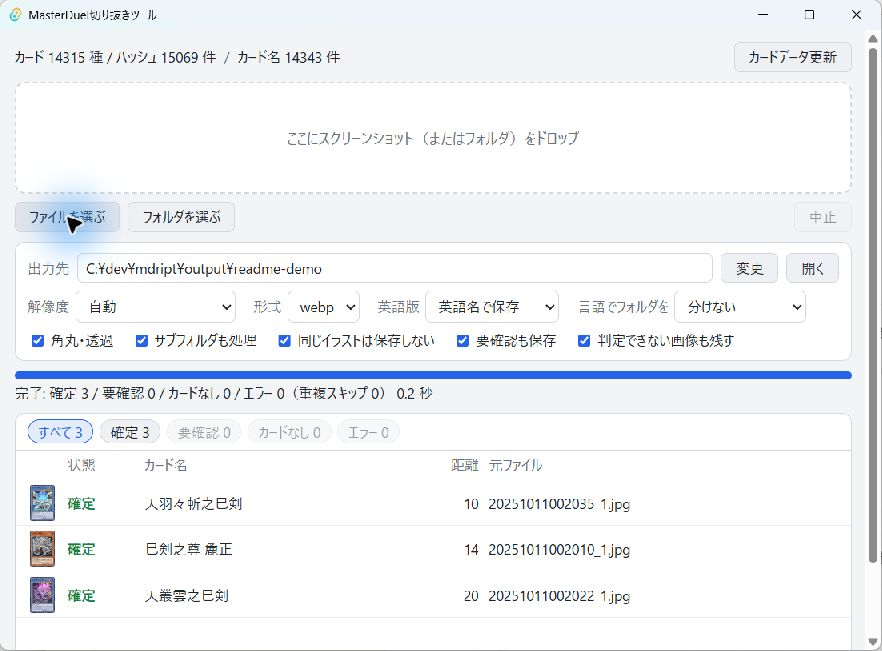
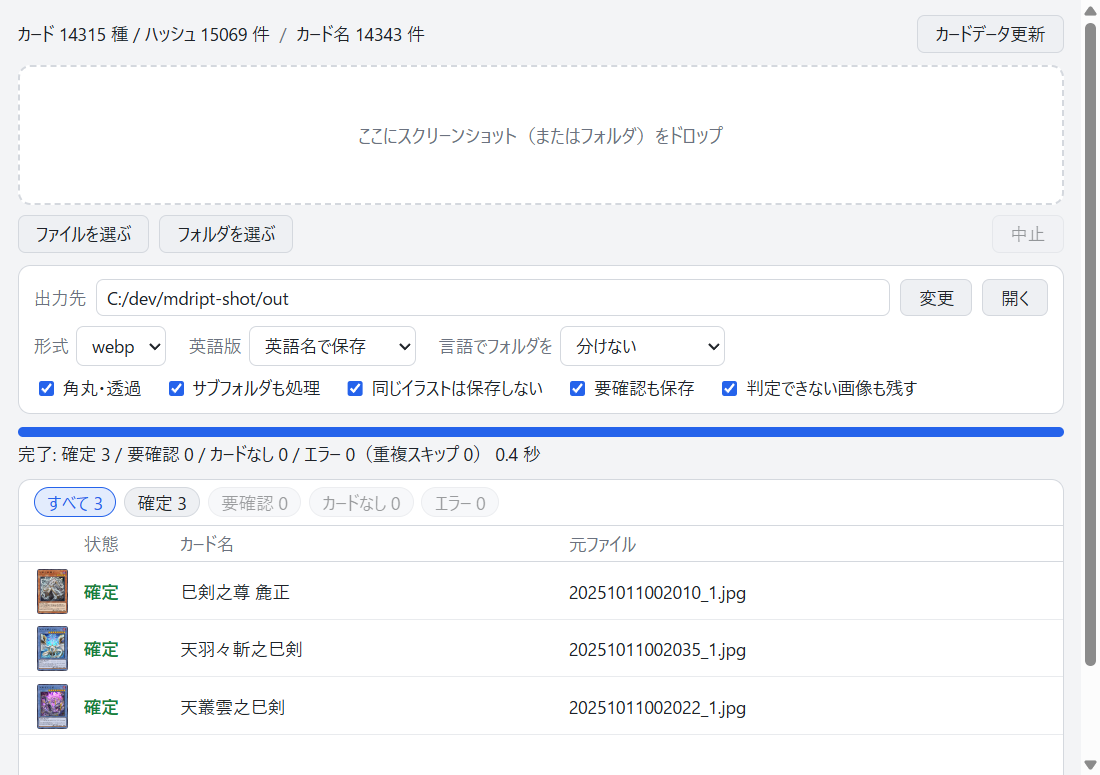
UI: show the version in the title, hide distances, rename options, drop the resolution setting
- Window title shows the version after the app name
- Remove the distance column and value; candidates show a rank instead
- Rename the English option to 区別しない and the 'both' format to 両方
- Remove the resolution selector: auto detection already covers a wider range
- Refresh the README and its screenshot

diff --git a/gui/src/App.vue b/gui/src/App.vue
@@ -18,17 +18,16 @@ import type {
   UpdateDone,
 } from "./types";
 
-const RESOLUTIONS: Record<string, string> = {
-  自動: "auto",
-  "FullHD (1920x1080)": "1920x1080",
-  "WQHD (2560x1440)": "2560x1440",
-  "4K (3840x2160)": "3840x2160",
-};
-const FORMATS = ["webp", "png", "both"];
+// 保存形式（画面の表示と、設定・処理に渡す値）
+const FORMATS = [
+  { label: "webp", value: "webp" },
+  { label: "png", value: "png" },
+  { label: "両方", value: "both" },
+];
 const ENGLISH: Record<string, string> = {
   英語名で保存: "name",
   日本語名で保存: "ja",
-  判別しない: "off",
+  区別しない: "off",
 };
 const SPLIT: Record<string, string> = {
   分けない: "none",
@@ -42,7 +41,6 @@ const labelOf = (table: Record<string, string>, value: string | undefined, fallb
 
 // ---- 設定 ----
 const output = ref("");
-const resolution = ref("自動");
 const format = ref("webp");
 const rounded = ref(true);
 const recursive = ref(true);
@@ -72,7 +70,6 @@ const namesText = computed(() => (data.value.names > 0 ? `カード名 ${data.va
 function currentConfig(): Config {
   return {
     output_dir: output.value.trim(),
-    resolution: resolution.value,
     save_format: format.value,
     rounded: rounded.value,
     recursive: recursive.value,
@@ -329,7 +326,8 @@ function identifyArgs(out: string): ProcessArgs {
     save_not_card: saveNotCard.value,
     english: ENGLISH[english.value] ?? "name",
     split: SPLIT[split.value] ?? "none",
-    resolution: RESOLUTIONS[resolution.value] ?? "auto",
+    // カードの位置は自動で見つける（解像度を指定しても、見つけられる範囲は広がらない）
+    resolution: "auto",
   };
 }
 
@@ -502,7 +500,6 @@ async function reportMigration(m: Migration) {
 }
 
 // ---- 表示 ----
-const distanceText = (r: IdentifyResult) => (r.distance < 999 ? String(r.distance) : "-");
 const fileName = (path: string) => path.split(/[\\/]/).pop() ?? path;
 
 const unlisten: Array<() => void> = [];
@@ -525,8 +522,7 @@ onMounted(async () => {
   config = state.config;
   data.value = state.data;
   output.value = config.output_dir || state.default_output;
-  resolution.value = config.resolution && config.resolution in RESOLUTIONS ? config.resolution : "自動";
-  format.value = FORMATS.includes(config.save_format ?? "") ? config.save_format! : "webp";
+  format.value = FORMATS.some((f) => f.value === config.save_format) ? config.save_format! : "webp";
   rounded.value = config.rounded ?? true;
   recursive.value = config.recursive ?? true;
   skipDuplicate.value = config.skip_duplicate ?? true;
@@ -607,15 +603,9 @@ onBeforeUnmount(() => {
       </div>
       <div class="line options">
         <label class="field">
-          解像度
-          <select v-model="resolution">
-            <option v-for="label in Object.keys(RESOLUTIONS)" :key="label">{{ label }}</option>
-          </select>
-        </label>
-        <label class="field">
           形式
           <select v-model="format">
-            <option v-for="f in FORMATS" :key="f">{{ f }}</option>
+            <option v-for="f in FORMATS" :key="f.value" :value="f.value">{{ f.label }}</option>
           </select>
         </label>
         <label class="field">
@@ -665,7 +655,6 @@ onBeforeUnmount(() => {
           <span></span>
           <span>状態</span>
           <span>カード名</span>
-          <span class="num">距離</span>
           <span>元ファイル</span>
         </div>
         <div ref="listEl" class="list" @scroll="onListScroll">
@@ -693,7 +682,6 @@ onBeforeUnmount(() => {
               {{ r.name || "-" }}
               <em v-if="r.english" class="badge">英語版</em>
             </span>
-            <span class="num">{{ distanceText(r) }}</span>
             <span class="file" :title="r.source">
               {{ fileName(r.source) }}
               <small v-if="r.note">{{ r.note }}</small>
@@ -720,13 +708,12 @@ onBeforeUnmount(() => {
           <div class="now" :class="'s-' + STATUSES.indexOf(current.status)">
             <span class="state">{{ current.status }}</span>
             <span class="name">{{ current.name || "-" }}</span>
-            <span class="num">{{ distanceText(current) }}</span>
           </div>
           <div v-if="current.note" class="note">{{ current.note }}</div>
           <ul v-if="candidates.length" class="cands">
-            <li v-for="c in candidates" :key="c.cid">
+            <li v-for="(c, rank) in candidates" :key="c.cid">
               <span class="name" :title="c.name">{{ c.name }}</span>
-              <span class="num">{{ c.distance }}</span>
+              <span class="num">{{ rank + 1 }}位</span>
               <button v-if="canRegister" :disabled="locked" @click="register(c.cid)">登録</button>
             </li>
           </ul>
@@ -1027,7 +1014,7 @@ input[type="checkbox"] {
 }
 .row {
   display: grid;
-  grid-template-columns: 30px 4.8em minmax(0, 1.1fr) 3.5em minmax(0, 1.4fr);
+  grid-template-columns: 30px 4.8em minmax(0, 1.1fr) minmax(0, 1.4fr);
   gap: 10px;
   padding: 5px 12px;
   align-items: baseline;

diff --git a/gui/src-tauri/src/lib.rs b/gui/src-tauri/src/lib.rs
@@ -520,6 +520,17 @@ pub fn run() {
     tauri::Builder::default()
         .plugin(tauri_plugin_dialog::init())
         .manage(Arc::new(Busy::default()))
+        .setup(|app| {
+            // アプリ名の右に版番号を出す
+            if let Some(window) = app.get_webview_window("main") {
+                let title = format!(
+                    "開闢 v{} - マスターデュエル カード画像ツール",
+                    env!("CARGO_PKG_VERSION")
+                );
+                let _ = window.set_title(&title);
+            }
+            Ok(())
+        })
         .invoke_handler(tauri::generate_handler![
             get_state,
             save_config,

diff --git a/README.md b/README.md
@@ -18,10 +18,10 @@
 
 - 画像・フォルダのドラッグ＆ドロップによる一括処理。ファイル・フォルダ選択にも対応。
 - カードのイラストを見分け、カード名を付けて保存。
-- FullHD・WQHD・4K・ウルトラワイドのカード位置を自動推定。元の解像度も指定できます。
+- FullHD・WQHD・4K・ウルトラワイドなど、画面の大きさに合わせてカードの位置を自動で見つけます。
 - WebP／PNG／両形式での出力、カードの角丸・透過、同じイラストの重複スキップ。
 - サムネイル付きの結果一覧と、「確定」「要確認」「カードなし」「エラー」での絞り込み。
-- 行を選択して画像・候補・距離を確認。「要確認」「カードなし」の画像はカード名・IDで検索して照合データへ登録。
+- 行を選択して画像と候補を確認。「要確認」「カードなし」の画像はカード名・IDで検索して照合データへ登録。
 - 日本語・英語のスクリーンショットを判別し、保存名と言語別フォルダを選択。
 - 公式データベースからカード名と新しいカードセットの照合データを取得。
 
@@ -49,7 +49,7 @@ WebView2 Runtime が必要です。多くの環境では導入済みですが、
 
 ### 4. 結果を確認する
 
-一覧の行を選ぶと画像と判定候補が表示されます。重複しているため保存をスキップした画像も確認できます。候補の距離は値が小さいほど画像が近いことを表します。ただし、判定の正しさを保証する数値ではありません。
+一覧の行を選ぶと画像と判定候補が表示されます。重複しているため保存をスキップした画像も確認できます。候補は画像に近い順に並び、順位を表示します。順位は判定の正しさを保証するものではありません。
 
 「要確認」「カードなし」の画像は、候補またはカード名・IDの検索結果から［登録］できます。元のスクリーンショットを選んだカードの照合データに追加し、その画像を処理し直します。
 
@@ -76,17 +76,16 @@ WebView2 Runtime が必要です。多くの環境では導入済みですが、
 
 | 設定 | 選択肢・動作 |
 | --- | --- |
-| 解像度 | 自動／FullHD／WQHD／4K |
-| 形式 | `webp`／`png`／`both`。WebP品質はGUIでは90 |
+| 形式 | `webp`／`png`／両方（同じ名前で2種類を保存）。WebP品質はGUIでは90 |
 | 角丸・透過 | 四隅の外側を透明にする |
 | サブフォルダも処理 | フォルダ内を再帰的に処理 |
 | 同じイラストは保存しない | 保存済み画像との重複をスキップ |
 | 要確認も保存する | `review/` に保存 |
 | 判定できない画像も残す | `not_card/` に保存 |
-| 英語版 | 英語名で保存／日本語名で保存／判別しない |
+| 英語版 | 英語名で保存／日本語名で保存／区別しない |
 | 言語でフォルダを | 分けない／英語版を `en/` に／`ja/` と `en/` に分ける |
 
-同じフォルダで日本語版と英語版の名前が重なる場合、英語版には `_en` を付けます。英語名を取得していない場合は日本語名などで保存し、そのことを備考に表示します。言語判別を無効にすると、言語別フォルダにも分けません。`not_card/` は言語別には分けません。
+同じフォルダで日本語版と英語版の名前が重なる場合、英語版には `_en` を付けます。英語名を取得していない場合は日本語名などで保存し、そのことを備考に表示します。「区別しない」を選ぶと、英語版も日本語版と同じように扱い、`_en` も言語別フォルダも付けません。`not_card/` は言語別には分けません。
 
 ### カードデータを更新する
 
